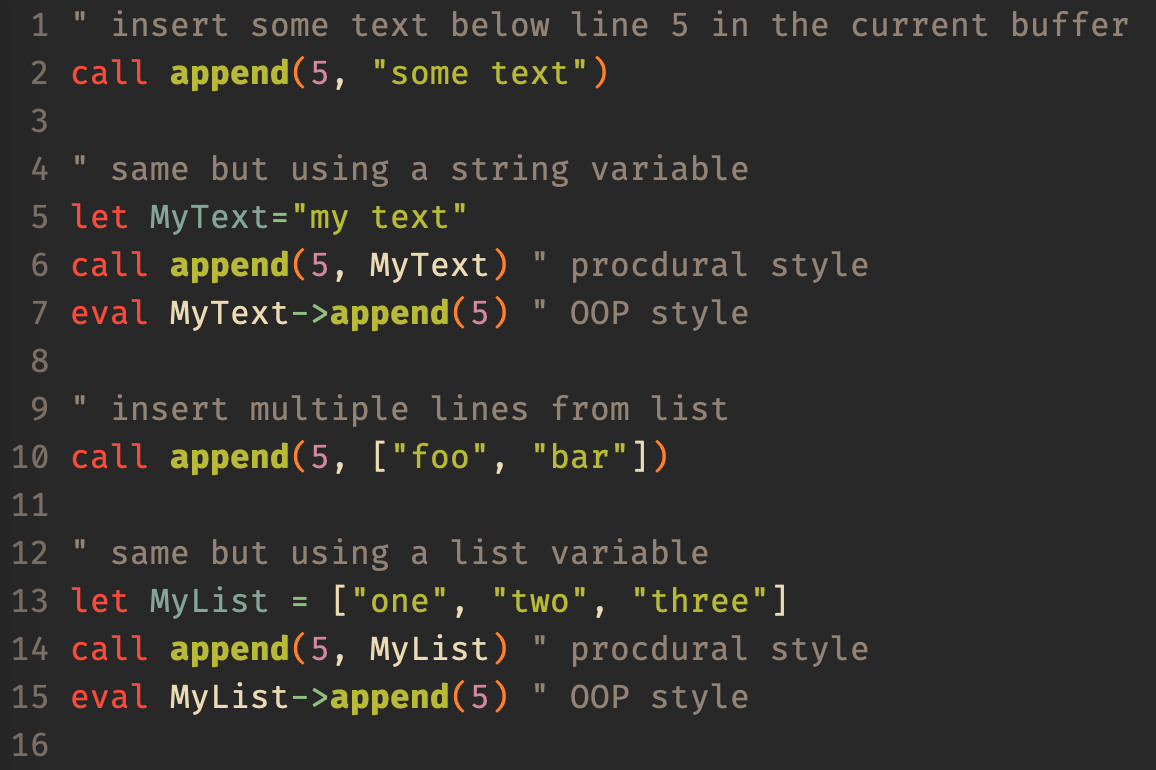
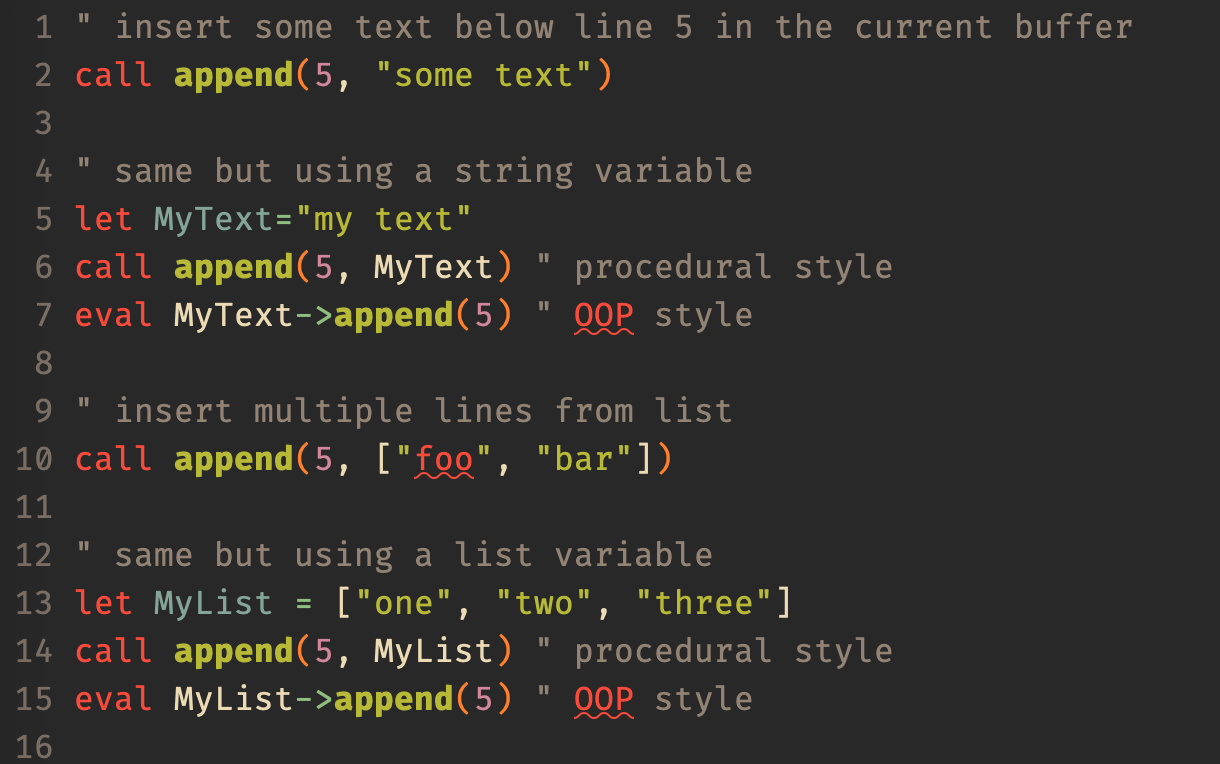
TypoFixes, thank you Yaroslav

diff --git a/linkcollection/linkcollection.md b/linkcollection/linkcollection.md
@@ -24,7 +24,7 @@
 + [vim-galore](https://github.com/mhinz/vim-galore)
 + [learn-vim](https://github.com/iggredible/Learn-Vim)
 + [vim-helptag-versions](https://axelforsman.tk/vim-helptag-versions/)
-+ [learn-vim](https://github.com/iggredible/Learn-Vim)
++ [vimways](https://vimways.org/)
 
 ## Colorschemes
 + [vimcolors.org](https://vimcolors.org)
@@ -34,6 +34,7 @@
 + [vimcolorschemes](https://vimcolorschemes.com)
 
 ## Blogs
++ [effective text editing](https://www.moolenaar.net/habits.html)
 + [dailyvim.blogspot.de](http://dailyvim.blogspot.de)
 + [dailyvim.tumblr.com](http://dailyvim.tumblr.com)
 + [derekwyatt blog](http://derekwyatt.org/tags/index.html#vim)
@@ -68,6 +69,7 @@
 + [Derek Wyatt](http://derekwyatt.org/vim/tutorials/index.html)
 + [How to Do 90% of What Plugins Do With Just Vim](https://www.youtube.com/watch?v=XA2WjJbmmoM)
 + [Vim Un-Alphabet](https://www.youtube.com/playlist?list=PL46-cKSxMYYCMpzXo6p0Cof8hJInYgohU)
++ [VimTricks](https://www.youtube.com/channel/UCDPNU10nfHfPgEAqK9SmuTQ/videos)
 
 ## Vim Inspired FileManagers
 + [vifm](https://vifm.info)

diff --git a/solutions/language_independent/spell_checking/spell_checking.md b/solutions/language_independent/spell_checking/spell_checking.md
@@ -132,7 +132,7 @@ But if we look at the undercurled lines in Vim, there we see only a single word 
 ![hello world test](img/hello_world.png)
 
 So of course when we provide a word to the `spellbadword()` function that is not known then it must be marked as
-spelling mistake. From that point of view nothing is wrong. But on the other hand this can be very annyoing in source
+spelling mistake. From that point of view nothing is wrong. But on the other hand this can be very annoying in source
 code and obviously we can tell from the screenshot above that Vim is capable of handling it in a smart way, so that only
 the really misspelled word is listed and not the irrelevant parts of the source code. And this leads us to the second
 implementation that calls `spellbadword()` without argument. Because this way Vim is taking care of the source code and

diff --git a/examples/commands/c_Ctrl-a.md b/examples/commands/c_Ctrl-a.md
@@ -9,7 +9,7 @@ Insert all args of the current command that match the pattern.
 
 ## Examples
 
-I dont't know if this is a good example, but let's assume we want to activate all boolean Vim options that start with
+I don't know if this is a good example, but let's assume we want to activate all boolean Vim options that start with
 `show*`. This example has only the purpose to demo that it works per ex-command. Hint - for the Vim options that require a
 parameter value only their current setting gets printed, in this example `showbreak` and `showtabline`.
 

diff --git a/examples/commands/nv_aA.md b/examples/commands/nv_aA.md
@@ -13,7 +13,7 @@ Puts Vim in insert mode somewhere after the cursor.
 
 ### normal mode `a` and `A`
 
-`A` is bascially the short form of `$a`, and is useful when you have to append text to a line, for example when you forgot a
+`A` is basically the short form of `$a`, and is useful when you have to append text to a line, for example when you forgot a
 semicolon or you want to add a comment to the line.
 
 ![normal mode a and A](img/nv_aA_1.png)

diff --git a/examples/excommands/ascii.md b/examples/excommands/ascii.md
@@ -18,3 +18,6 @@ Both show a decimal value of 99 and a hex value of 0x63.
 
 > As you have 2 commands (:ascii and ga) that are doing the same, one could potentially use `ga` for something else.
 > But of course `ga` is the one easier to execute. So you have to decide yourself if it's worth the trade-off.
+
+## External Links
+- [Tim Pope - vim-characterize](https://github.com/tpope/vim-characterize)
